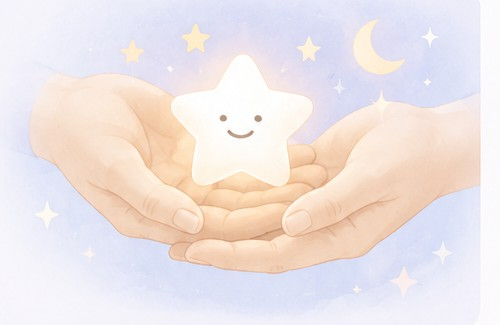
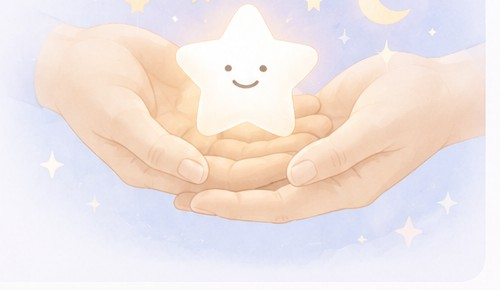
인트로 위로 밴드 일러스트 재크롭 — 상단 빈 공간(흰 여백) 줄이고 별·손 중심으로 균형 조정 (v=15)

diff --git a/index.html b/index.html
@@ -14,25 +14,25 @@
   <meta name="apple-mobile-web-app-status-bar-style" content="default" />
   <meta name="apple-mobile-web-app-title" content="내 아이 설명서" />
   <!-- 웹폰트(나눔스퀘어 네오)는 assets/fonts 에 내장 — 완전 오프라인 동작 -->
-  <link rel="stylesheet" href="assets/css/style.css?v=14" />
-  <link rel="stylesheet" href="assets/css/print.css?v=14" media="print" />
+  <link rel="stylesheet" href="assets/css/style.css?v=15" />
+  <link rel="stylesheet" href="assets/css/print.css?v=15" media="print" />
 </head>
 <body>
   <div id="app" aria-live="polite"></div>
   <div id="toast-host" aria-live="assertive"></div>
   <div id="modal-host"></div>
 
-  <script src="assets/js/store.js?v=14"></script>
-  <script src="assets/js/videodb.js?v=14"></script>
-  <script src="assets/js/seed.js?v=14"></script>
-  <script src="assets/js/qr.js?v=14"></script>
-  <script src="assets/js/ui.js?v=14"></script>
-  <script src="assets/js/views.js?v=14"></script>
-  <script src="assets/js/views2.js?v=14"></script>
-  <script src="assets/js/views3.js?v=14"></script>
-  <script src="assets/js/views4.js?v=14"></script>
-  <script src="assets/js/tour.js?v=14"></script>
-  <script src="assets/js/help.js?v=14"></script>
-  <script src="assets/js/app.js?v=14"></script>
+  <script src="assets/js/store.js?v=15"></script>
+  <script src="assets/js/videodb.js?v=15"></script>
+  <script src="assets/js/seed.js?v=15"></script>
+  <script src="assets/js/qr.js?v=15"></script>
+  <script src="assets/js/ui.js?v=15"></script>
+  <script src="assets/js/views.js?v=15"></script>
+  <script src="assets/js/views2.js?v=15"></script>
+  <script src="assets/js/views3.js?v=15"></script>
+  <script src="assets/js/views4.js?v=15"></script>
+  <script src="assets/js/tour.js?v=15"></script>
+  <script src="assets/js/help.js?v=15"></script>
+  <script src="assets/js/app.js?v=15"></script>
 </body>
 </html>

diff --git a/assets/js/views.js b/assets/js/views.js
@@ -259,7 +259,7 @@
               '<div class="why-visual">' +
                 '<img src="assets/img/intro-hands-star.jpg" ' +
                   'alt="두 손 위에서 웃고 있는 별 일러스트" loading="lazy" ' +
-                  'width="500" height="325">' +
+                  'width="500" height="290">' +
                 '<p class="star-quote">“완벽해서가 아니라,<br>세상에서 하나뿐인 소중한 존재”</p>' +
               '</div>' +
               '<div class="why-content">' +